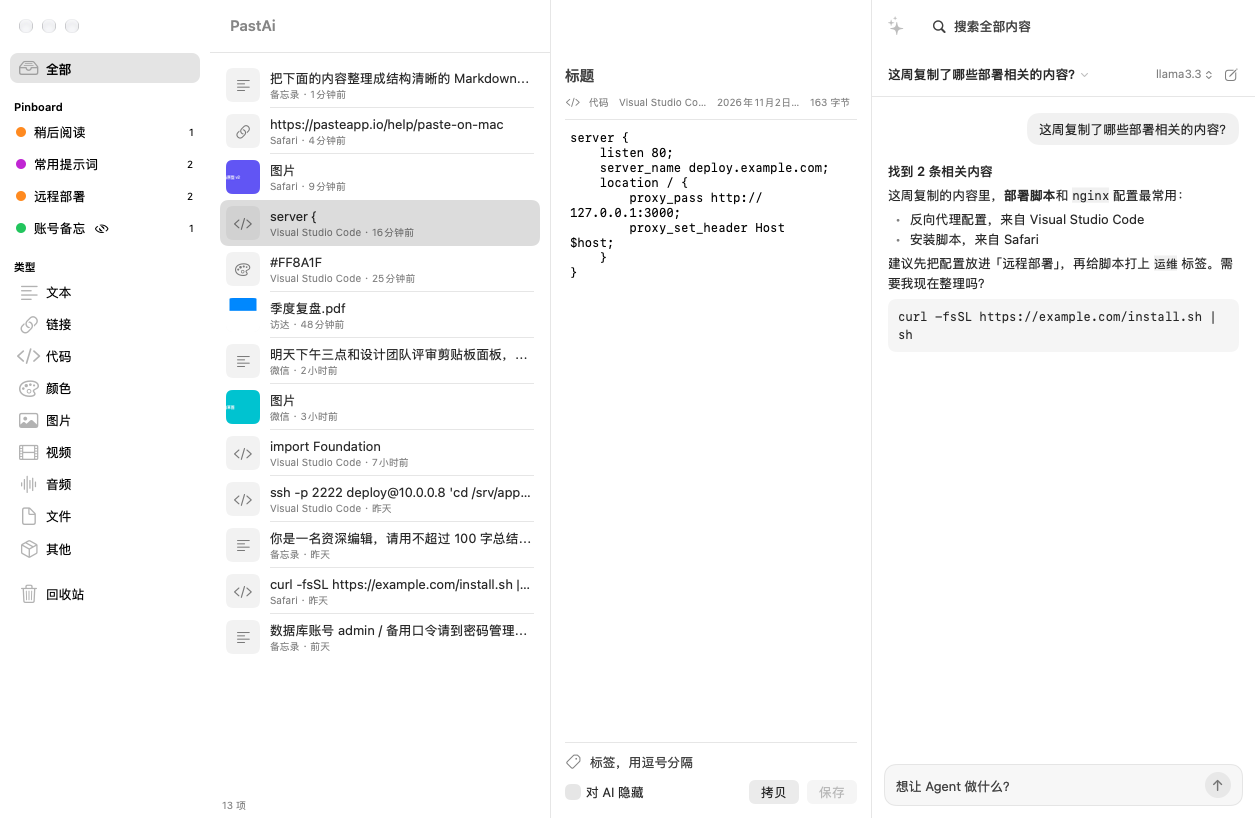
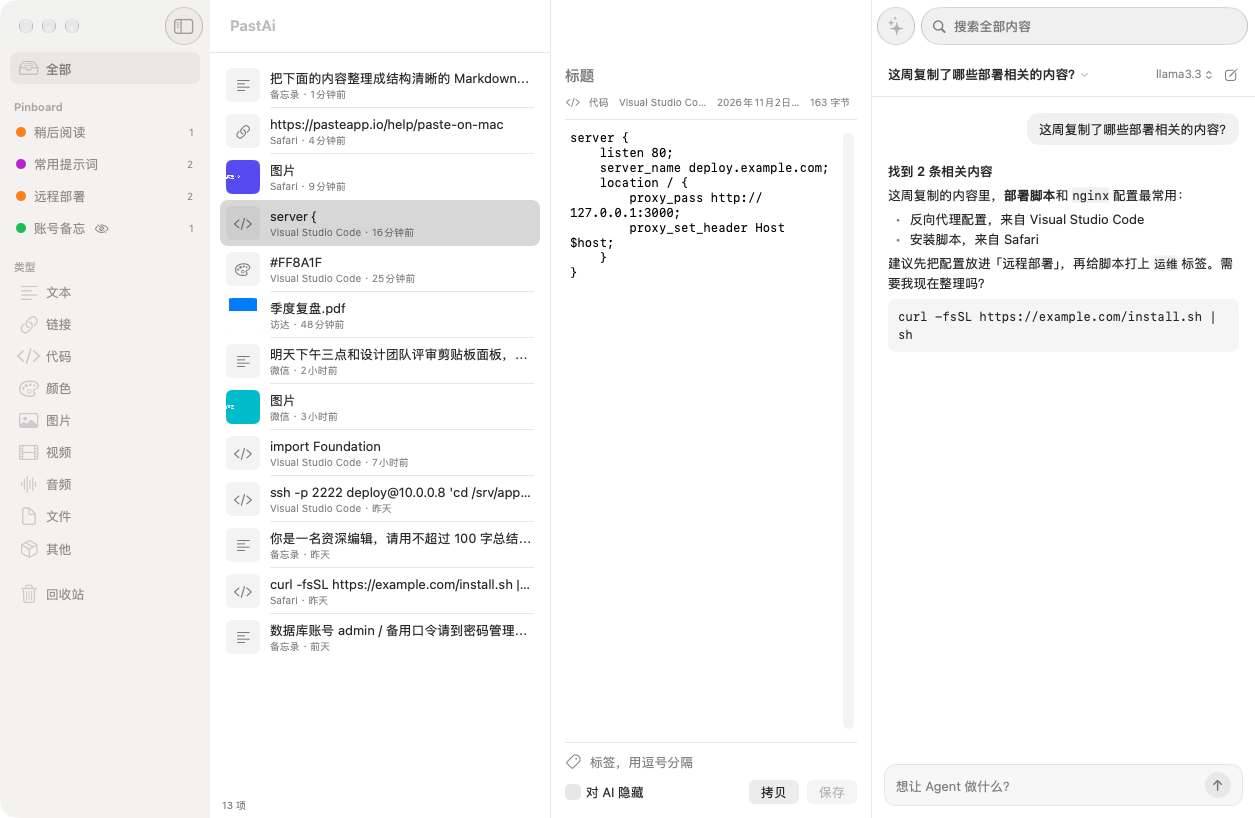
Retake README screenshots from real windows
The previous set was rendered inside the app on a locked screen, which
drops the glass toolbar and sidebar. These come from window captures of
a demo library, so the shots match what people see.

diff --git a/App/DevDriver.swift b/App/DevDriver.swift
@@ -236,6 +236,8 @@ final class DevDriver: NSObject {
         state["axTrusted"] = PasteSimulator.isTrusted
         state["windows"] = [
             "panel": panel.debugWindow.windowNumber,
+            "bar": bar.debugBarWindow.windowNumber,
+            "result": bar.debugResultWindow.windowNumber,
             "main": workspace.debugWindowNumber("main"),
             "settings": workspace.debugWindowNumber("settings"),
         ]
